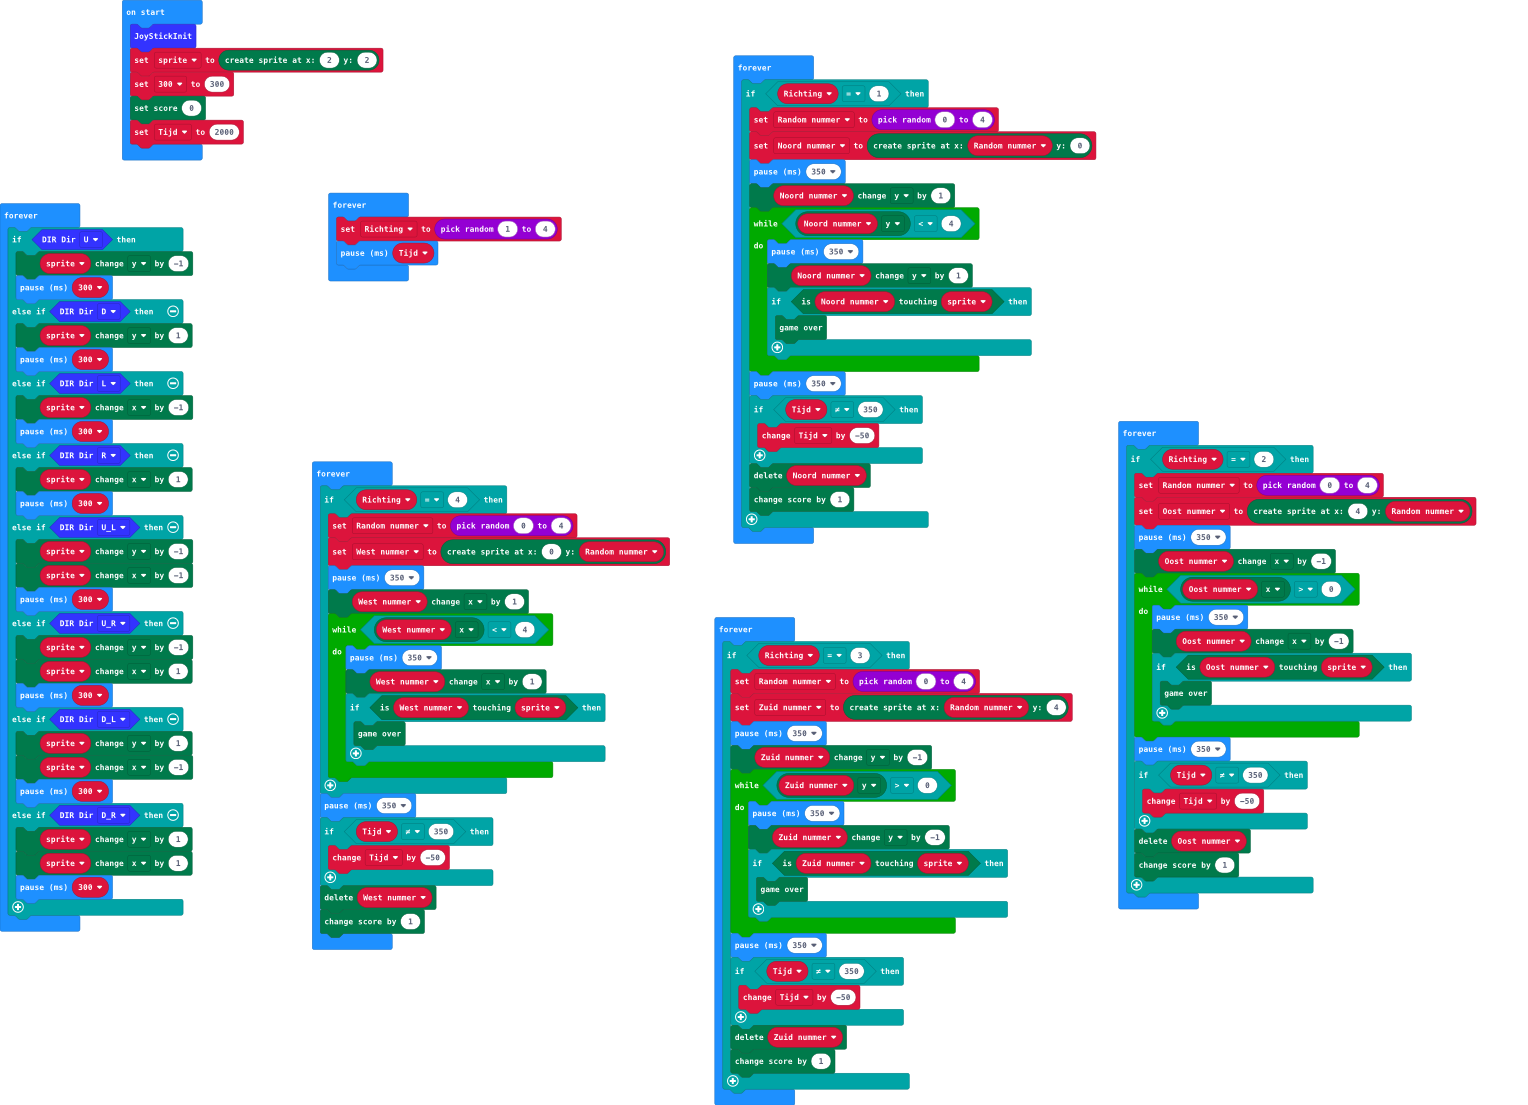
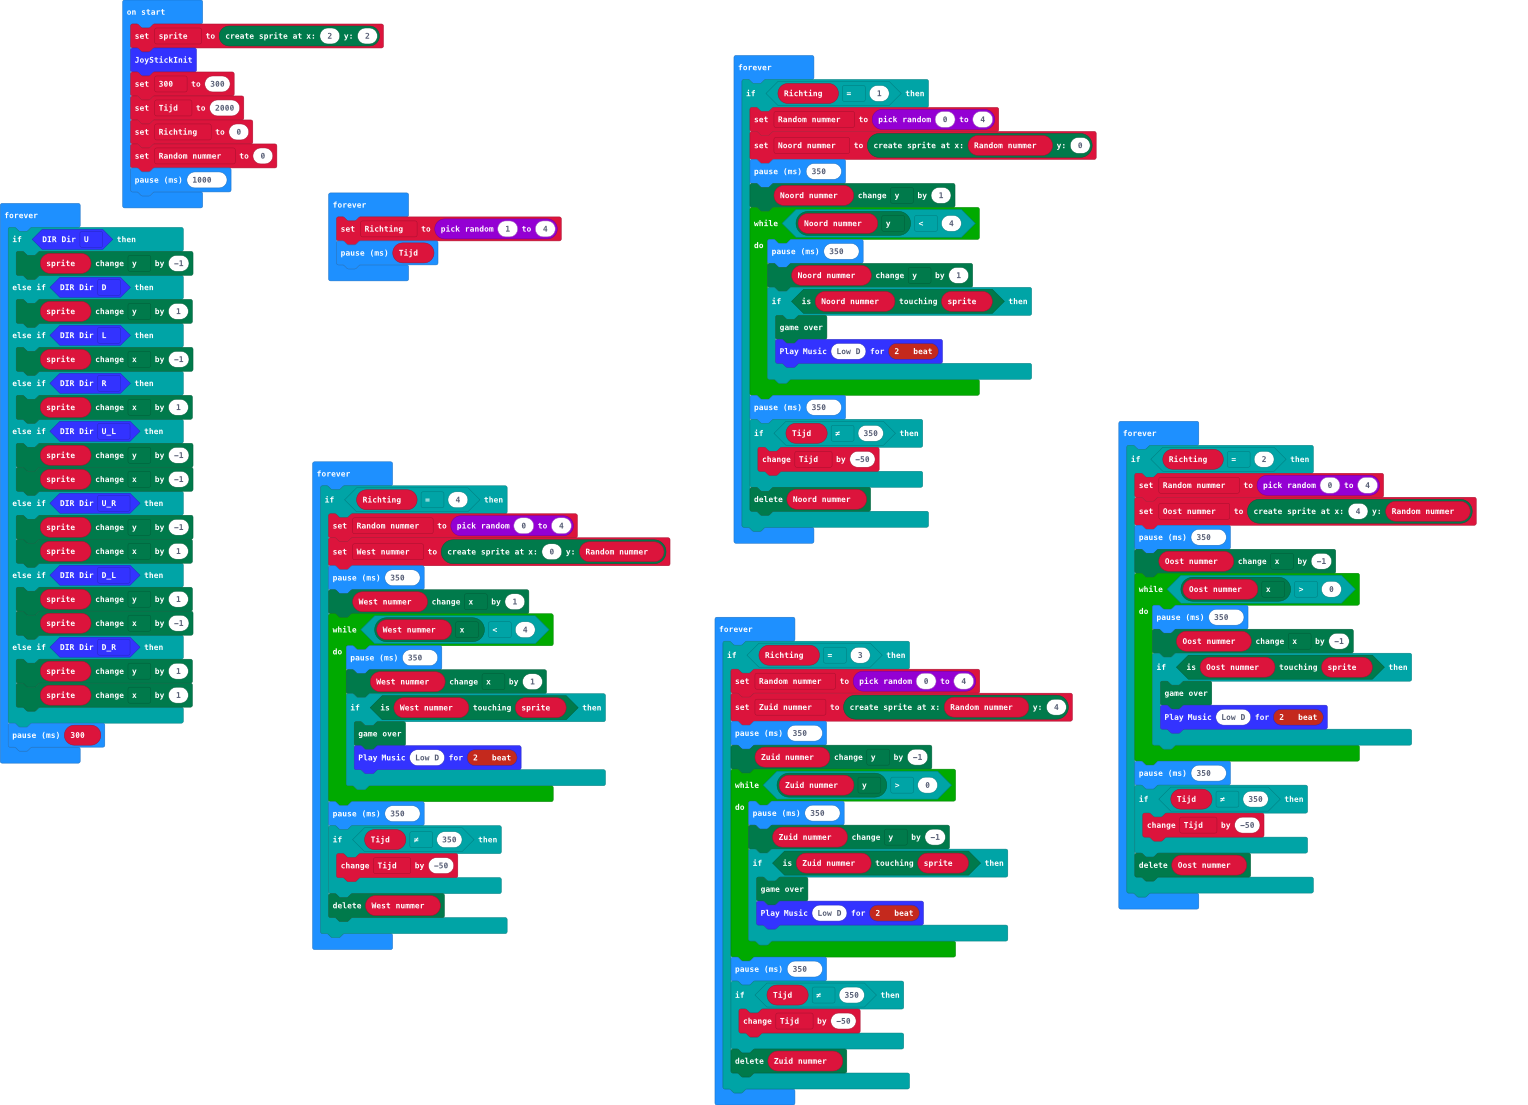
new and improved bugless edition.........

diff --git a/main.ts b/main.ts
@@ -2,13 +2,13 @@ let Zuid_nummer: game.LedSprite = null
 let Oost_nummer: game.LedSprite = null
 let West_nummer: game.LedSprite = null
 let Noord_nummer: game.LedSprite = null
-let Random_nummer = 0
-let Richting = 0
-WSJoyStick.JoyStickInit()
 let sprite = game.createSprite(2, 2)
+WSJoyStick.JoyStickInit()
 let _300 = 300
-game.setScore(0)
 let Tijd = 2000
+let Richting = 0
+let Random_nummer = 0
+basic.pause(1000)
 basic.forever(function () {
     if (Richting == 1) {
         Random_nummer = randint(0, 4)
@@ -20,6 +20,7 @@ basic.forever(function () {
             Noord_nummer.change(LedSpriteProperty.Y, 1)
             if (Noord_nummer.isTouching(sprite)) {
                 game.gameOver()
+                WSJoyStick.PlayMusic(147, music.beat(BeatFraction.Double))
             }
         }
         basic.pause(350)
@@ -27,39 +28,31 @@ basic.forever(function () {
             Tijd += -50
         }
         Noord_nummer.delete()
-        game.addScore(1)
     }
 })
 basic.forever(function () {
     if (WSJoyStick.Listen_Dir(DIR.U)) {
         sprite.change(LedSpriteProperty.Y, -1)
-        basic.pause(_300)
     } else if (WSJoyStick.Listen_Dir(DIR.D)) {
         sprite.change(LedSpriteProperty.Y, 1)
-        basic.pause(_300)
     } else if (WSJoyStick.Listen_Dir(DIR.L)) {
         sprite.change(LedSpriteProperty.X, -1)
-        basic.pause(_300)
     } else if (WSJoyStick.Listen_Dir(DIR.R)) {
         sprite.change(LedSpriteProperty.X, 1)
-        basic.pause(_300)
     } else if (WSJoyStick.Listen_Dir(DIR.U_L)) {
         sprite.change(LedSpriteProperty.Y, -1)
         sprite.change(LedSpriteProperty.X, -1)
-        basic.pause(_300)
     } else if (WSJoyStick.Listen_Dir(DIR.U_R)) {
         sprite.change(LedSpriteProperty.Y, -1)
         sprite.change(LedSpriteProperty.X, 1)
-        basic.pause(_300)
     } else if (WSJoyStick.Listen_Dir(DIR.D_L)) {
         sprite.change(LedSpriteProperty.Y, 1)
         sprite.change(LedSpriteProperty.X, -1)
-        basic.pause(_300)
     } else if (WSJoyStick.Listen_Dir(DIR.D_R)) {
         sprite.change(LedSpriteProperty.Y, 1)
         sprite.change(LedSpriteProperty.X, 1)
-        basic.pause(_300)
     }
+    basic.pause(_300)
 })
 basic.forever(function () {
     Richting = randint(1, 4)
@@ -76,15 +69,15 @@ basic.forever(function () {
             West_nummer.change(LedSpriteProperty.X, 1)
             if (West_nummer.isTouching(sprite)) {
                 game.gameOver()
+                WSJoyStick.PlayMusic(147, music.beat(BeatFraction.Double))
             }
         }
+        basic.pause(350)
+        if (Tijd != 350) {
+            Tijd += -50
+        }
+        West_nummer.delete()
     }
-    basic.pause(350)
-    if (Tijd != 350) {
-        Tijd += -50
-    }
-    West_nummer.delete()
-    game.addScore(1)
 })
 basic.forever(function () {
     if (Richting == 2) {
@@ -97,6 +90,7 @@ basic.forever(function () {
             Oost_nummer.change(LedSpriteProperty.X, -1)
             if (Oost_nummer.isTouching(sprite)) {
                 game.gameOver()
+                WSJoyStick.PlayMusic(147, music.beat(BeatFraction.Double))
             }
         }
         basic.pause(350)
@@ -104,7 +98,6 @@ basic.forever(function () {
             Tijd += -50
         }
         Oost_nummer.delete()
-        game.addScore(1)
     }
 })
 basic.forever(function () {
@@ -118,6 +111,7 @@ basic.forever(function () {
             Zuid_nummer.change(LedSpriteProperty.Y, -1)
             if (Zuid_nummer.isTouching(sprite)) {
                 game.gameOver()
+                WSJoyStick.PlayMusic(147, music.beat(BeatFraction.Double))
             }
         }
         basic.pause(350)
@@ -125,6 +119,5 @@ basic.forever(function () {
             Tijd += -50
         }
         Zuid_nummer.delete()
-        game.addScore(1)
     }
 })
